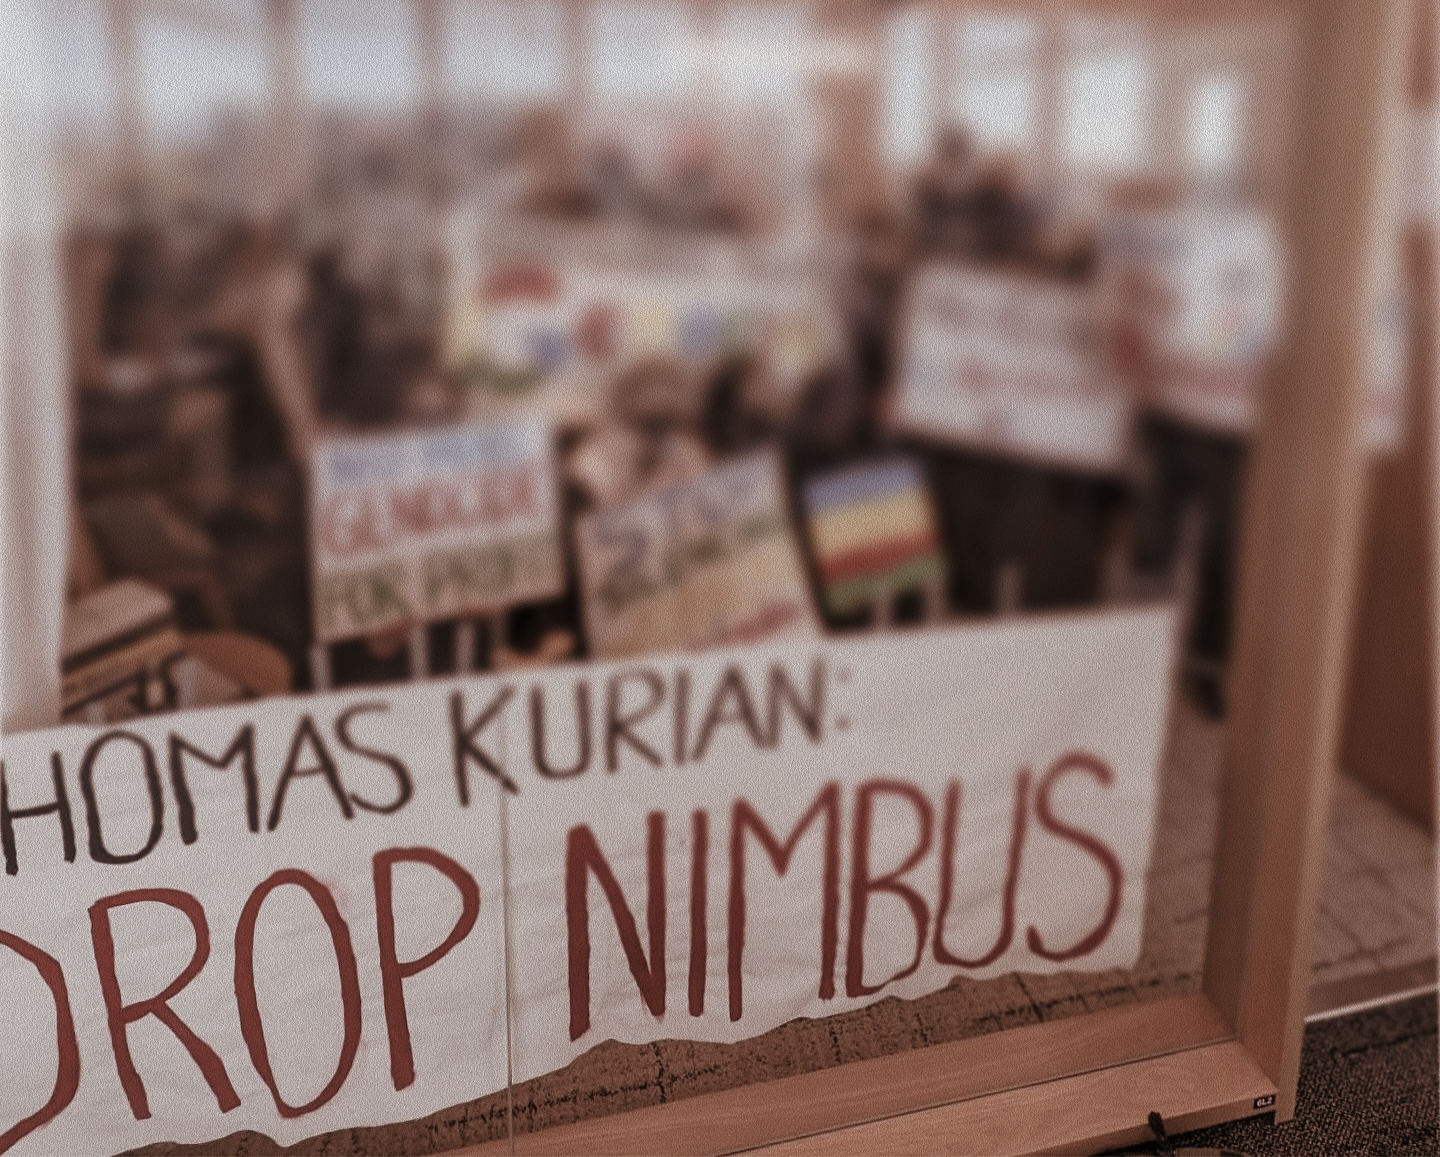
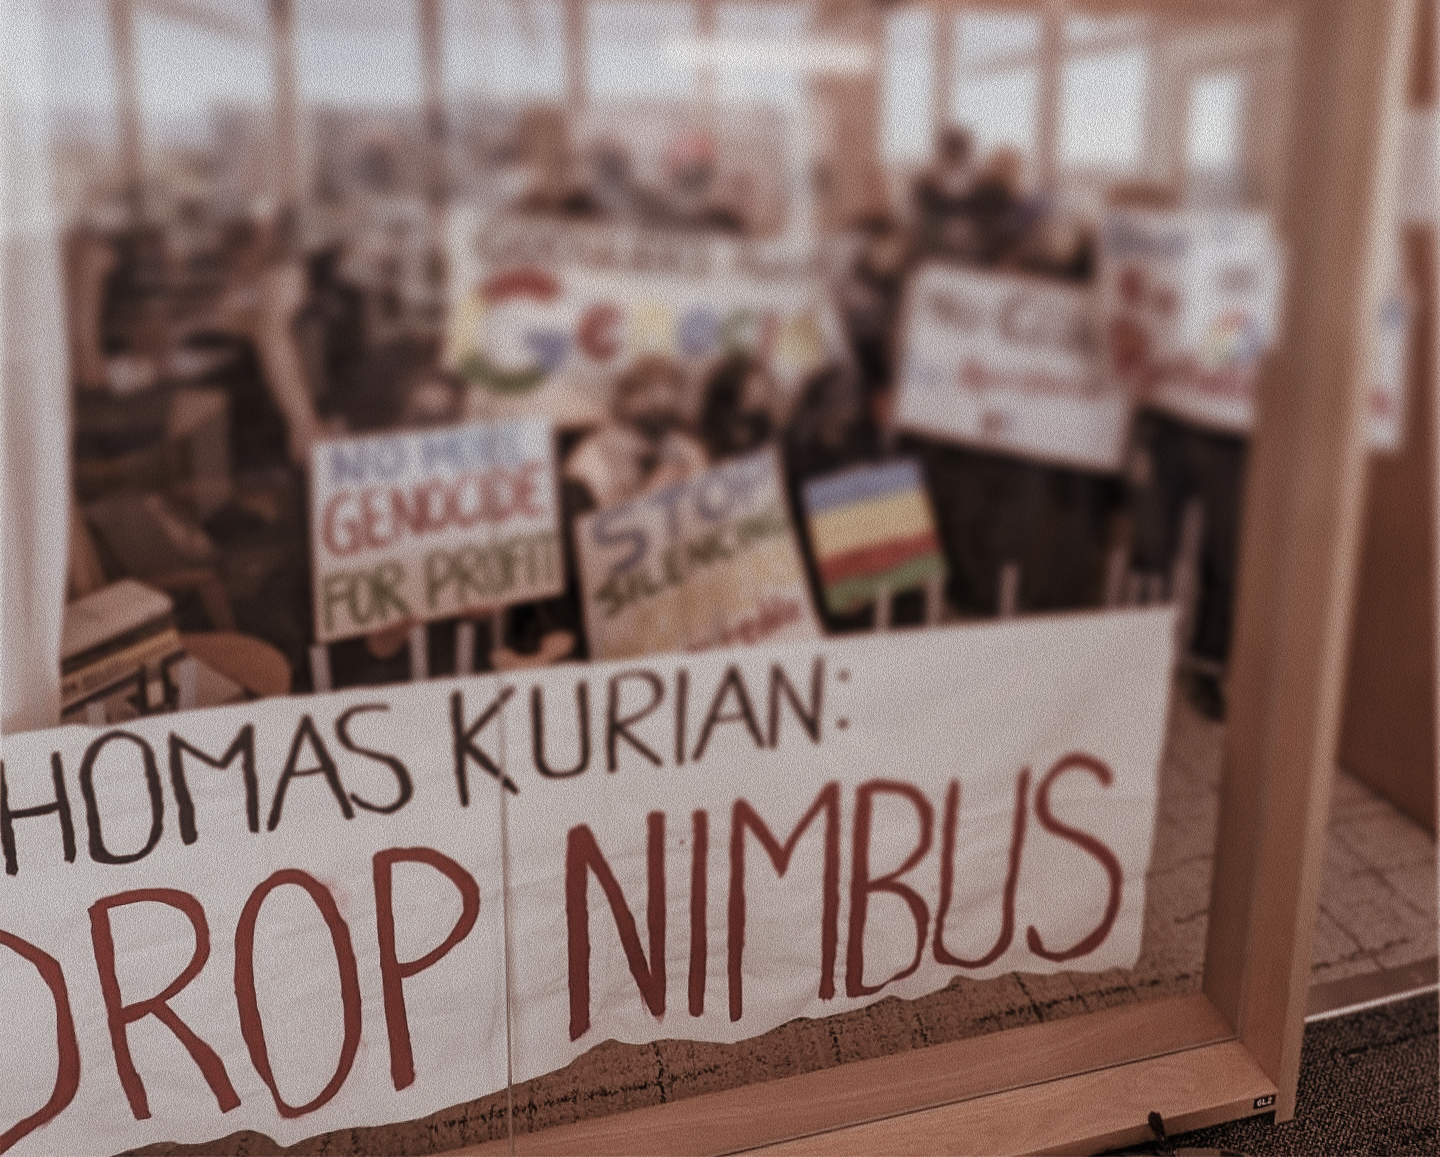
fixes

diff --git a/src/content/authors/no-tech-for-apartheid.md b/src/content/authors/no-tech-for-apartheid.md
@@ -1,3 +1,4 @@
 ---
 name: No Tech For Apartheid
 ---
+No Tech For Apartheid is a worker-led campaign of Google and Amazon workers organising against the companies' $1B Project Nimbus cloud computing contract with the Israeli government and military.
